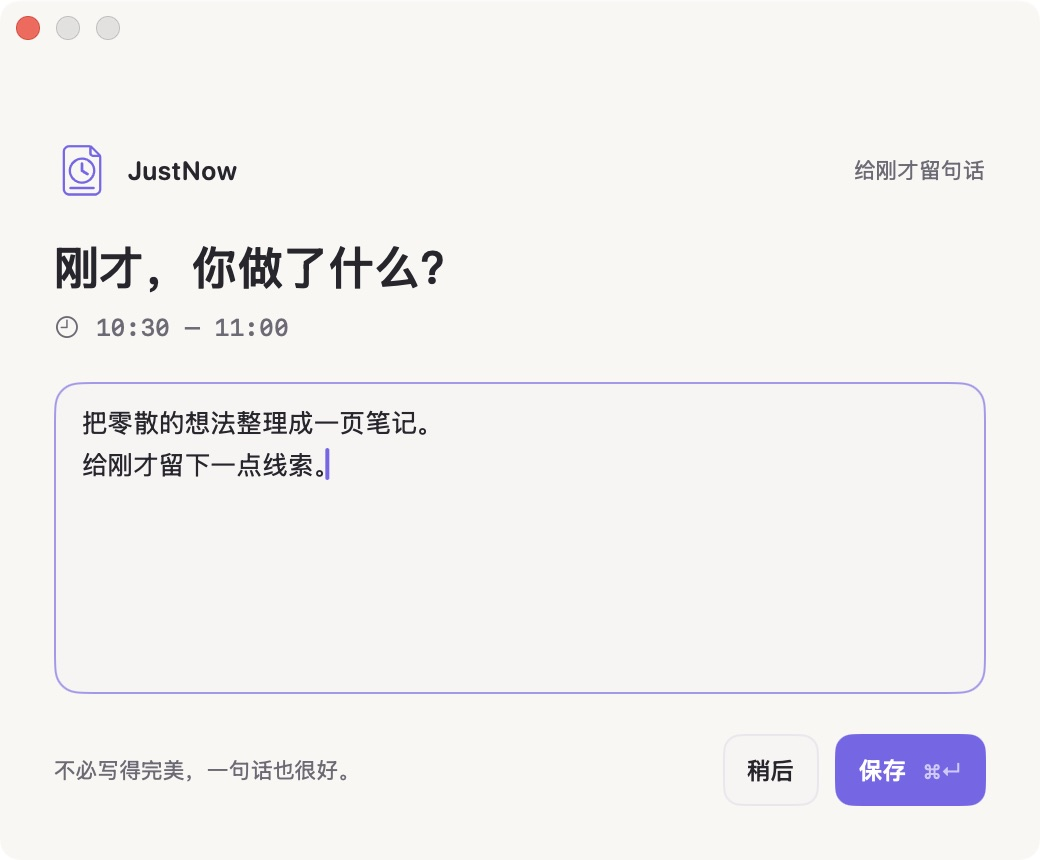
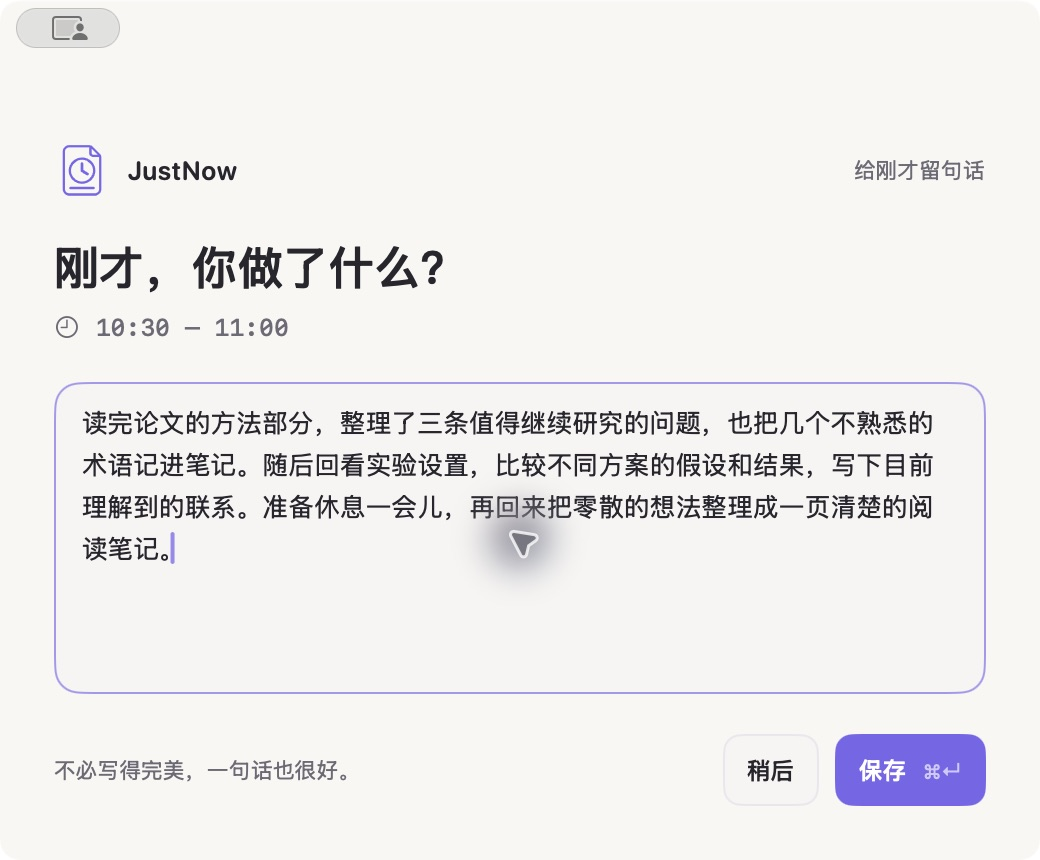
Fix editor wrapping and keep today current across midnight

Changed region(s): [[0.0615, 0.4535, 0.8923, 0.6651], [0.0, 0.0, 0.0923, 0.0605]]

diff --git a/Tests/JustNowAppTests/AppModelTests.swift b/Tests/JustNowAppTests/AppModelTests.swift
@@ -1,0 +1,129 @@
+import Foundation
+import XCTest
+@testable import JustNow
+
+final class AppModelTests: XCTestCase {
+    @MainActor
+    private func makeModel() -> AppModel {
+        let model = AppModel(isDemo: true, showOnboarding: true)
+        for entry in model.entries { model.deleteEntry(entry.id) }
+        return model
+    }
+
+    private func at(_ day: Int, _ hour: Int, _ minute: Int) -> Date {
+        Calendar.current.date(from: DateComponents(year: 2024, month: 2, day: day, hour: hour, minute: minute))!
+    }
+
+    func testTodayRollsOverAndPromptSaveUpdatesCountsWithoutNavigation() async throws {
+        try await MainActor.run {
+            let model = makeModel()
+            defer { try? FileManager.default.removeItem(at: model.dataDirectory) }
+            model.now = at(6, 23, 55)
+            model.selectedDay = model.now
+            XCTAssertTrue(model.saveEditedEntry(id: nil, start: at(6, 22, 0), end: at(6, 22, 30), text: "Earlier"))
+            XCTAssertTrue(model.saveEditedEntry(id: nil, start: at(6, 23, 50), end: at(7, 0, 20), text: "Draft"))
+            let id = try XCTUnwrap(model.entries.last?.id)
+            model.setDraft(id: id, text: "Unfinished note")
+            model.dismissPrompt()
+            XCTAssertEqual(model.completedCount, 1)
+            XCTAssertEqual(model.pendingCount, 1)
+            XCTAssertEqual(model.recordedDuration, 1_800)
+
+            model.now = at(7, 0, 25)
+            XCTAssertEqual(model.displayDay, model.now)
+            XCTAssertEqual(model.selectedDay, at(6, 23, 55))
+            XCTAssertEqual(model.selectedDayEntries.map(\.id), [id])
+            XCTAssertEqual(model.completedCount, 0)
+            XCTAssertEqual(model.pendingCount, 1)
+            XCTAssertEqual(model.todayPendingCount, 1)
+            XCTAssertEqual(model.recordedDuration, 0)
+
+            model.openPendingEntry(id)
+            XCTAssertEqual(model.promptEntryID, id)
+            XCTAssertTrue(model.savePrompt(id: id, text: "Finished across midnight"))
+            XCTAssertEqual(model.selectedSection, .today)
+            XCTAssertEqual(model.selectedDayEntries.first?.text, "Finished across midnight")
+            XCTAssertEqual(model.completedCount, 1)
+            XCTAssertEqual(model.pendingCount, 0)
+            XCTAssertEqual(model.todayPendingCount, 0)
+            XCTAssertEqual(model.recordedDuration, 1_200)
+            XCTAssertNil(model.promptEntryID)
+        }
+    }
+
+    func testHistoryKeepsItsSelectedDateAndSearchWhenTodayChanges() async throws {
+        try await MainActor.run {
+            let model = makeModel()
+            defer { try? FileManager.default.removeItem(at: model.dataDirectory) }
+            XCTAssertTrue(model.saveEditedEntry(id: nil, start: at(6, 9, 0), end: at(6, 9, 30), text: "Read a paper"))
+            XCTAssertTrue(model.saveEditedEntry(id: nil, start: at(6, 10, 0), end: at(6, 10, 15), text: "Write notes"))
+            XCTAssertTrue(model.saveEditedEntry(id: nil, start: at(7, 0, 0), end: at(7, 0, 20), text: "Read more"))
+            let firstDayIDs = Array(model.entries.prefix(2)).map(\.id)
+            model.selectedSection = .history
+            model.selectedDay = at(6, 12, 0)
+            model.searchText = "read"
+            model.now = at(7, 0, 25)
+            XCTAssertEqual(model.displayDay, model.selectedDay)
+            XCTAssertEqual(model.selectedDayEntries.map(\.id), [firstDayIDs[0]])
+            XCTAssertEqual(model.completedCount, 1)
+            XCTAssertEqual(model.recordedDuration, 1_800)
+
+            model.now = at(8, 0, 25)
+            XCTAssertEqual(model.selectedDay, at(6, 12, 0))
+            XCTAssertEqual(model.searchText, "read")
+            XCTAssertEqual(model.selectedDayEntries.map(\.id), [firstDayIDs[0]])
+            model.searchText = ""
+            XCTAssertEqual(model.selectedDayEntries.map(\.id), firstDayIDs)
+            XCTAssertEqual(model.completedCount, 2)
+            XCTAssertEqual(model.recordedDuration, 2_700)
+            XCTAssertTrue(model.saveEditedEntry(id: nil, start: at(8, 0, 0), end: at(8, 0, 20), text: "Today's draft"))
+            let id = try XCTUnwrap(model.entries.last?.id)
+            model.setDraft(id: id, text: "Unfinished")
+            model.dismissPrompt()
+            model.searchText = "no match"
+            XCTAssertTrue(model.selectedDayEntries.isEmpty)
+            XCTAssertEqual(model.pendingCount, 0)
+            XCTAssertEqual(model.todayPendingCount, 1)
+        }
+    }
+
+    func testSameDaySaveEditDraftAndDeleteAppearImmediately() async throws {
+        try await MainActor.run {
+            let model = makeModel()
+            defer { try? FileManager.default.removeItem(at: model.dataDirectory) }
+            model.now = at(7, 12, 0)
+            model.selectedDay = model.now
+            XCTAssertTrue(model.saveEditedEntry(id: nil, start: at(7, 9, 0), end: at(7, 9, 30), text: "First"))
+            XCTAssertTrue(model.saveEditedEntry(id: nil, start: at(7, 10, 0), end: at(7, 10, 30), text: "Second"))
+            let id = try XCTUnwrap(model.entries.last?.id)
+            XCTAssertEqual(model.selectedDayEntries.map(\.text), ["Second", "First"])
+
+            XCTAssertFalse(model.saveEditedEntry(id: id, start: at(7, 10, 0), end: at(7, 9, 45), text: "Edited"))
+            XCTAssertNotNil(model.errorMessage)
+            XCTAssertTrue(model.saveEditedEntry(id: id, start: at(7, 10, 0), end: at(7, 10, 45), text: "Edited"))
+            XCTAssertNil(model.errorMessage)
+            XCTAssertEqual(model.selectedDayEntries.first?.text, "Edited")
+            XCTAssertEqual(model.recordedDuration, 4_500)
+            model.setDraft(id: id, text: "Still editing")
+            model.dismissPrompt()
+            XCTAssertEqual(model.selectedDayEntries.first?.text, "Still editing")
+            XCTAssertEqual(model.pendingCount, 1)
+            XCTAssertEqual(model.completedCount, 1)
+            XCTAssertEqual(model.recordedDuration, 1_800)
+            XCTAssertFalse(model.savePrompt(id: id, text: " \n"))
+            XCTAssertNotNil(model.errorMessage)
+            XCTAssertTrue(model.savePrompt(id: id, text: "Done"))
+            XCTAssertNil(model.errorMessage)
+            XCTAssertEqual(model.selectedDayEntries.first?.text, "Done")
+            XCTAssertEqual(model.pendingCount, 0)
+            XCTAssertEqual(model.completedCount, 2)
+            XCTAssertEqual(model.recordedDuration, 4_500)
+
+            model.deleteEntry(id)
+            XCTAssertEqual(model.selectedDayEntries.map(\.text), ["First"])
+            XCTAssertEqual(model.completedCount, 1)
+            XCTAssertEqual(model.recordedDuration, 1_800)
+            XCTAssertEqual(model.selectedSection, .today)
+        }
+    }
+}

diff --git a/Sources/JustNow/AppModel.swift b/Sources/JustNow/AppModel.swift
@@ -89,9 +89,10 @@ final class AppModel: ObservableObject {
         return min(1, max(0, now.timeIntervalSince(session.segmentStartedAt) / (Double(session.intervalMinutes) * 60)))
     }
     var pendingEntries: [JournalEntry] { entries.filter(\.isPending).sorted { $0.start < $1.start } }
+    var displayDay: Date { selectedSection == .today ? now : selectedDay }
     var selectedDayEntries: [JournalEntry] {
         let calendar = Calendar.current
-        let dayStart = calendar.startOfDay(for: selectedDay)
+        let dayStart = calendar.startOfDay(for: displayDay)
         let dayEnd = calendar.date(byAdding: .day, value: 1, to: dayStart)!
         let query = searchText.trimmingCharacters(in: .whitespacesAndNewlines)
         return entries.filter {
@@ -99,7 +100,7 @@ final class AppModel: ObservableObject {
         }.sorted { selectedSection == .today ? $0.start > $1.start : $0.start < $1.start }
     }
     var recordedDuration: TimeInterval {
-        let start = Calendar.current.startOfDay(for: selectedDay)
+        let start = Calendar.current.startOfDay(for: displayDay)
         let end = Calendar.current.date(byAdding: .day, value: 1, to: start)!
         return selectedDayEntries.filter { !$0.isPending }.reduce(0) {
             $0 + max(0, min($1.end, end).timeIntervalSince(max($1.start, start)))
@@ -107,6 +108,12 @@ final class AppModel: ObservableObject {
     }
     var pendingCount: Int { selectedDayEntries.filter(\.isPending).count }
     var completedCount: Int { selectedDayEntries.filter { !$0.isPending }.count }
+    var todayPendingCount: Int {
+        let calendar = Calendar.current
+        let start = calendar.startOfDay(for: now)
+        let end = calendar.date(byAdding: .day, value: 1, to: start)!
+        return entries.filter { $0.isPending && $0.start < end && $0.end > start }.count
+    }
 
     func text(_ chinese: String, _ english: String) -> String {
         preferences.language.usesChinese ? chinese : english
@@ -155,6 +162,7 @@ final class AppModel: ObservableObject {
         draftSave?.cancel()
         promptQueue.removeAll { $0 == id }
         promptEntryID = nextQueuedEntry()
+        errorMessage = nil
         return true
     }
 
@@ -192,6 +200,7 @@ final class AppModel: ObservableObject {
         if result {
             if let id { drafts.removeValue(forKey: id) }
             presentedEditor = nil
+            errorMessage = nil
         }
         return result
     }

diff --git a/Sources/JustNow/Views.swift b/Sources/JustNow/Views.swift
@@ -131,8 +131,8 @@ struct MainView: View {
                 Image(systemName: icon).font(.system(size: 15)).frame(width: 20)
                 Text(title).font(.system(size: 13, weight: model.selectedSection == section ? .semibold : .medium))
                 Spacer()
-                if section == .today, model.pendingCount > 0 {
-                    Text("\(model.pendingCount)").font(.system(size: 10, weight: .semibold))
+                if section == .today, model.todayPendingCount > 0 {
+                    Text("\(model.todayPendingCount)").font(.system(size: 10, weight: .semibold))
                         .padding(.horizontal, 6).padding(.vertical, 3)
                         .background(Theme.accent.opacity(0.12), in: Capsule())
                 }
@@ -511,7 +511,7 @@ private struct SettingsView: View {
             HStack {
                 BrandMark(size: 22)
                 Text("JustNow").font(.system(size: 12, weight: .semibold, design: .rounded))
-                Text(Bundle.main.object(forInfoDictionaryKey: "CFBundleShortVersionString") as? String ?? "0.1.6")
+                Text(Bundle.main.object(forInfoDictionaryKey: "CFBundleShortVersionString") as? String ?? "0.1.7")
                     .font(.system(size: 11)).foregroundStyle(Theme.secondary)
                 Spacer()
                 Text(model.text("用 MIT 许可开源 · 为日常留一点空间", "Open source under MIT · A little room for your day"))
@@ -746,7 +746,7 @@ private struct EntryEditorView: View {
     init(model: AppModel, request: EntryEditorRequest) {
         self.model = model
         self.request = request
-        let initialEnd = request.entry?.end ?? (Calendar.current.isDateInToday(model.selectedDay) ? model.now : Calendar.current.date(bySettingHour: 9, minute: 30, second: 0, of: model.selectedDay) ?? model.selectedDay)
+        let initialEnd = request.entry?.end ?? (Calendar.current.isDateInToday(model.displayDay) ? model.now : Calendar.current.date(bySettingHour: 9, minute: 30, second: 0, of: model.displayDay) ?? model.displayDay)
         _end = State(initialValue: initialEnd)
         _start = State(initialValue: request.entry?.start ?? initialEnd.addingTimeInterval(-Double(model.preferences.intervalMinutes * 60)))
         _draft = State(initialValue: request.entry?.text ?? "")

diff --git a/Sources/JustNow/JustNowApp.swift b/Sources/JustNow/JustNowApp.swift
@@ -69,7 +69,7 @@ final class AppDelegate: NSObject, NSApplicationDelegate, NSWindowDelegate, NSMe
             self?.updateReminder(id: id)
         }.store(in: &subscriptions)
         model.$now.sink { [weak self] _ in self?.updateStatusTitle() }.store(in: &subscriptions)
-        model.$journal.map { $0.preferences.language }.removeDuplicates().sink { [weak self] _ in
+        model.$journal.map { $0.preferences.language }.removeDuplicates().receive(on: RunLoop.main).sink { [weak self] _ in
             self?.createMainMenu()
         }.store(in: &subscriptions)
         let center = NSWorkspace.shared.notificationCenter
@@ -219,7 +219,7 @@ final class AppDelegate: NSObject, NSApplicationDelegate, NSWindowDelegate, NSMe
     @objc private func showAbout() {
         NSApp.orderFrontStandardAboutPanel(options: [
             .applicationName: "JustNow · 刚才",
-            .applicationVersion: Bundle.main.object(forInfoDictionaryKey: "CFBundleShortVersionString") as? String ?? "0.1.6",
+            .applicationVersion: Bundle.main.object(forInfoDictionaryKey: "CFBundleShortVersionString") as? String ?? "0.1.7",
             .credits: NSAttributedString(string: model.text("一句话，留下刚才。\n免费开源 · MIT", "A small pause. A clearer day.\nFree & open source · MIT"))
         ])
     }

diff --git a/Package.swift b/Package.swift
@@ -12,6 +12,7 @@ let package = Package(
         .target(name: "JustNowCore"),
         .executableTarget(name: "JustNow", dependencies: ["JustNowCore"],
                           resources: [.copy("Resources/BrandMark.png")]),
-        .testTarget(name: "JustNowCoreTests", dependencies: ["JustNowCore"])
+        .testTarget(name: "JustNowCoreTests", dependencies: ["JustNowCore"]),
+        .testTarget(name: "JustNowAppTests", dependencies: ["JustNow"])
     ]
 )

diff --git a/Sources/JustNow/Controls.swift b/Sources/JustNow/Controls.swift
@@ -27,7 +27,7 @@ private struct NativeJournalEditor: NSViewRepresentable {
         let scroll = NSScrollView()
         scroll.drawsBackground = false
         scroll.hasVerticalScroller = false
-        let editor = JournalNSTextView(frame: NSRect(x: 0, y: 0, width: 400, height: 180))
+        let editor = JournalNSTextView(frame: scroll.contentView.bounds)
         editor.isEditable = true
         editor.isSelectable = true
         editor.isRichText = false

diff --git a/scripts/check-editor-wrapping.py b/scripts/check-editor-wrapping.py
@@ -1,0 +1,94 @@
+#!/usr/bin/env python3
+"""Exercise the production editor in an invisible AppKit window (macOS only)."""
+from pathlib import Path
+import subprocess
+import tempfile
+
+root = Path(__file__).resolve().parent.parent
+harness = r'''
+import AppKit
+import SwiftUI
+
+// Theme's resource accessor is generated by SwiftPM; this check never uses BrandMark.
+extension Bundle { static var module: Bundle { .main } }
+NSApplication.shared.setActivationPolicy(.prohibited)
+
+func descendant<T: NSView>(_ view: NSView, _ type: T.Type) -> T? {
+    if let result = view as? T { return result }
+    return view.subviews.compactMap { descendant($0, type) }.first
+}
+
+for text in [String(repeating: "整理今天的想法，检查记录输入体验。", count: 30),
+             String(repeating: "Review the editor and record what happened. ", count: 30),
+             "https://example.com/" + String(repeating: "unbroken-path", count: 100),
+             "第一行\nSecond line\n第三行"] {
+    let host = NSHostingView(rootView: JournalTextEditor(text: .constant(text), placeholder: "", focused: .constant(false)))
+    let window = NSWindow(contentRect: NSRect(x: 0, y: 0, width: 400, height: 180),
+                          styleMask: [.borderless], backing: .buffered, defer: false)
+    window.contentView = host
+    func settle() {
+        for _ in 0..<5 {
+            host.layoutSubtreeIfNeeded()
+            RunLoop.main.run(until: Date().addingTimeInterval(0.01))
+        }
+    }
+    settle()
+    let scroll = descendant(host, NSScrollView.self)!
+    let editor = scroll.documentView as! NSTextView
+    let layout = editor.layoutManager!, container = editor.textContainer!
+    func lines() -> Int {
+        layout.ensureLayout(for: container)
+        assert(abs(editor.frame.width - scroll.contentSize.width) < 1, "Editor exceeds visible width")
+        var count = 0
+        layout.enumerateLineFragments(forGlyphRange: layout.glyphRange(for: container)) { _, used, _, _, _ in
+            assert(used.maxX <= container.size.width + 1, "Text extends past the wrapping boundary")
+            count += 1
+        }
+        return count
+    }
+    let wideLines = lines()
+    assert(wideLines >= 3, "Long text or explicit newlines did not wrap")
+    let selected = NSRange(location: 2, length: 3)
+    editor.setSelectedRange(selected)
+    window.setContentSize(NSSize(width: 240, height: 180))
+    settle()
+    let narrowLines = lines()
+    assert(narrowLines >= wideLines && (text.contains("\n") || narrowLines > wideLines), "Narrowing did not reflow text")
+    assert(editor.string == text && editor.selectedRange() == selected, "Resize changed text or selection")
+    if narrowLines > 10 {
+        editor.scrollRangeToVisible(NSRange(location: text.utf16.count - 1, length: 1))
+        assert(scroll.documentVisibleRect.minY > 0 && scroll.documentVisibleRect.minX == 0, "Long text cannot scroll vertically")
+    }
+    editor.undoManager!.beginUndoGrouping()
+    editor.insertText("replacement", replacementRange: selected)
+    editor.undoManager!.endUndoGrouping()
+    editor.undoManager!.undo()
+    assert(editor.string == text && editor.selectedRange() == selected, "Undo did not restore text and selection")
+    editor.setMarkedText("拼音输入", selectedRange: NSRange(location: 0, length: 4), replacementRange: selected)
+    let marked = editor.markedRange()
+    window.setContentSize(NSSize(width: 520, height: 180))
+    settle()
+    assert(lines() <= narrowLines, "Widening did not reflow text")
+    assert(editor.hasMarkedText() && editor.markedRange() == marked, "Resize interrupted input composition")
+    editor.unmarkText()
+}
+print("PASS: Chinese, English, URLs, newlines, resize, scrolling, selection, undo and composition")
+'''
+
+with tempfile.TemporaryDirectory(prefix="justnow-editor-check-") as directory:
+    work = Path(directory)
+    main = work / "main.swift"
+    main.write_text(harness)
+    subprocess.run([
+        "xcrun", "swiftc", "-swift-version", "5", "-parse-as-library",
+        str(root / "Sources/JustNowCore/CalendarSelection.swift"),
+        "-emit-module", "-emit-object", "-module-name", "JustNowCore",
+        "-emit-module-path", str(work / "JustNowCore.swiftmodule"), "-o", str(work / "Core.o"),
+    ], check=True)
+    binary = work / "check"
+    subprocess.run([
+        "xcrun", "swiftc", "-swift-version", "5", "-I", directory,
+        str(root / "Sources/JustNow/Controls.swift"), str(root / "Sources/JustNow/Theme.swift"),
+        str(work / "Core.o"), str(main), "-o", str(binary),
+    ], check=True)
+    subprocess.run([str(binary)], check=True)

diff --git a/CHANGELOG.md b/CHANGELOG.md
@@ -1,5 +1,12 @@
 # Changelog
 
+## 0.1.7
+
+- 修正提醒与编辑输入框的长文本自动换行。
+- 今日列表、统计和补记默认时间随当前日期更新，跨午夜保存后无需切换页面即可看到新记录。
+- 今日待补记数量不再受时间档案的搜索条件影响。
+- 成功保存后清除先前的保存错误提示，切换语言后立即更新菜单栏文字。
+
 ## 0.1.6
 
 - 时间线行中的时间、正文与编辑按钮统一垂直居中对齐。
